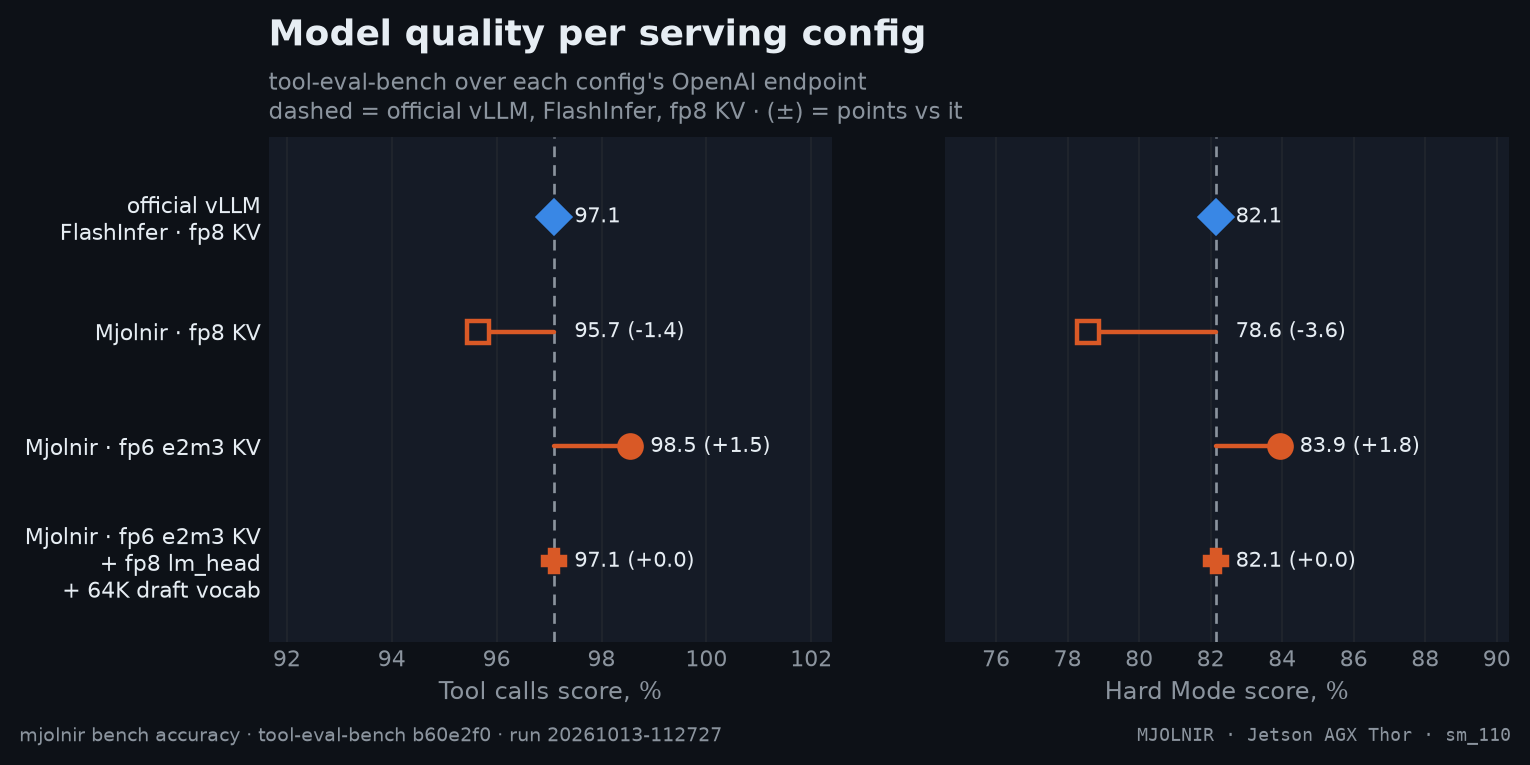
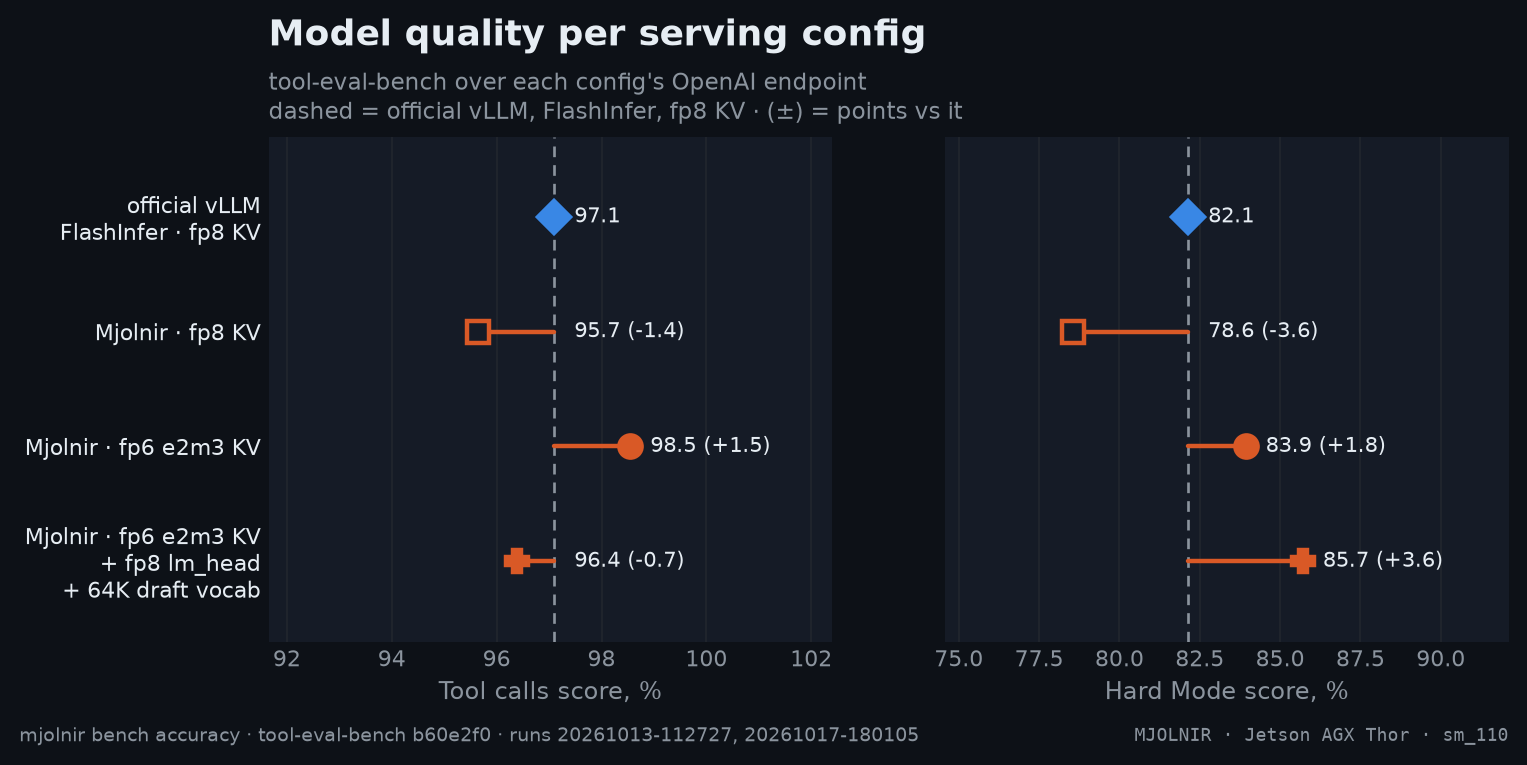
docs: re-render from the new raws

diff --git a/docs/kernel/accuracy.md b/docs/kernel/accuracy.md
@@ -1,6 +1,6 @@
 # Accuracy
 
-> Does a serving config keep the model's answers? Tool calling (standard + Hard Mode), and GSM8K / MMLU / IFEval on demand · `mjolnir bench accuracy` · run `20261013-112727`
+> Does a serving config keep the model's answers? Tool calling (standard + Hard Mode), and GSM8K / MMLU / IFEval on demand · `mjolnir bench accuracy` · runs `20261013-112727`, `20261017-180105`
 
 ## The question
 
@@ -27,14 +27,14 @@ Sampling is greedy (temperature 0) with a fixed seed, so two configs see the sam
 
 - **Mjolnir · fp8 KV** vs official vLLM · FlashInfer · fp8 KV: Tool calls -1.4, Hard Mode -3.6 points (4 scenarios scored lower, 2 higher of 97).
 - **Mjolnir · fp6 e2m3 KV** vs official vLLM · FlashInfer · fp8 KV: Tool calls +1.5, Hard Mode +1.8 points (0 scenarios scored lower, 3 higher of 97).
-- **Mjolnir · fp6 e2m3 KV + fp8 lm_head + 64K draft vocab** vs official vLLM · FlashInfer · fp8 KV: Tool calls +0.0, Hard Mode +0.0 points (1 scenarios scored lower, 1 higher of 97).
+- **Mjolnir · fp6 e2m3 KV + fp8 lm_head + 64K draft vocab** vs official vLLM · FlashInfer · fp8 KV: Tool calls -0.7, Hard Mode +3.6 points (3 scenarios scored lower, 3 higher of 97).
 
 | config | KV | Tool calls % | Hard Mode % | completion |
 |---|---|--:|--:|--:|
 | **official vLLM · FlashInfer · fp8 KV** | fp8 | 97.1 | 82.1 | 100% |
 | Mjolnir · fp8 KV | fp8 | 95.7 (-1.4) | 78.6 (-3.6) | 100% |
 | Mjolnir · fp6 e2m3 KV | fp6 e2m3 | 98.5 (+1.5) | 83.9 (+1.8) | 100% |
-| Mjolnir · fp6 e2m3 KV + fp8 lm_head + 64K draft vocab | fp6 e2m3 | 97.1 (+0.0) | 82.1 (+0.0) | 100% |
+| Mjolnir · fp6 e2m3 KV + fp8 lm_head + 64K draft vocab | fp6 e2m3 | 96.4 (-0.7) | 85.7 (+3.6) | 100% |
 
 <details>
 <summary>How the % and × here are calculated</summary>
@@ -45,7 +45,7 @@ Sampling is greedy (temperature 0) with a fixed seed, so two configs see the sam
 
 </details><br />
 
-<sub>Score in %, (±) = points vs **official vLLM · FlashInfer · fp8 KV**; n = averaged runs (`--trials`). Each row takes every suite from the newest run that measured it. tool-eval-bench arguments: Tool calls: `run --hardmode --seed 42 --timeout 600`; Hard Mode: `run --hardmode --seed 42 --timeout 600`. Rendered from [`benchmarks/raw/accuracy/20261013-112727/accuracy.json`](../../benchmarks/raw/accuracy/20261013-112727/accuracy.json).</sub>
+<sub>Score in %, (±) = points vs **official vLLM · FlashInfer · fp8 KV**; n = averaged runs (`--trials`). Each row takes every suite from the newest run that measured it. tool-eval-bench arguments: Tool calls: `run --hardmode --seed 42 --timeout 600`; Hard Mode: `run --hardmode --seed 42 --timeout 600`. Rendered from [`benchmarks/raw/accuracy/20261013-112727/accuracy.json`](../../benchmarks/raw/accuracy/20261013-112727/accuracy.json), [`benchmarks/raw/accuracy/20261017-180105/accuracy.json`](../../benchmarks/raw/accuracy/20261017-180105/accuracy.json).</sub>
 
 ### By tool-call category
 
@@ -66,12 +66,12 @@ Sampling is greedy (temperature 0) with a fixed seed, so two configs see the sam
 | H · Instruction Following | 100 | 100 | 100 | 100 |
 | I · Context & State | 90 | 95 | 100 | 90 |
 | J · Code Patterns | 100 | 100 | 100 | 100 |
-| K · Safety & Boundaries | 100 | 88 | 100 | 100 |
+| K · Safety & Boundaries | 100 | 88 | 100 | 96 |
 | L · Toolset Scale | 100 | 100 | 100 | 100 |
 | M · Autonomous Planning | 100 | 100 | 100 | 100 |
 | N · Creative Composition | 100 | 100 | 100 | 100 |
 | O · Structured Output | 83 | 83 | 83 | 83 |
-| P · Hard Mode | 82 | 79 | 84 | 82 |
+| P · Hard Mode | 82 | 79 | 84 | 86 |
 
 <sub>Share of points per category, %. A category has 2–10 scenarios: one scenario moving from pass to partial shifts it by 5–25 points — read single cells as anecdotes, the totals as the result.</sub>
 

diff --git a/docs/kernel/README.md b/docs/kernel/README.md
@@ -62,7 +62,7 @@ flowchart LR
 
 | # | chapter | question | status |
 |---|---|---|---|
-| 1 | [Correctness matrix](correctness.md) | kernel vs the bit-faithful emulator: every layout, format, page size, q_len, Q dtype | ✅ run `20261014-154855` |
+| 1 | [Correctness matrix](correctness.md) | kernel vs the bit-faithful emulator: every layout, format, page size, q_len, Q dtype | ✅ run `20261017-112344` |
 | 2 | [Headline L-sweep](sweep.md) | Mjolnir vs FlashInfer vs FlashAttention 2, ncu kernel time at every L | ✅ run `20261012-202029` |
 | 3 | [Head-major pages](hndsweep.md) | FlashInfer on NHD and HND vs Mjolnir on HND — is HND a kernel win or a layout win? | ✅ run `20261012-203356` |
 | 4 | [KV layouts and formats](kvfmt.md) | fp8 / fp6 / fp4 / nvfp4 KV on NHD / interleaved / HND pages (ncu + wall clock) | ✅ run `20261012-203801` |
@@ -74,7 +74,7 @@ flowchart LR
 | 10 | [L2 prefetch](prefetch.md) | TMA L2 prefetch distance (--l2_prefetch) sweep | ✅ run `20261012-211441` |
 | 11 | [Programmatic dependent launch](pdl.md) | PDL on/off wall clock (decode overlaps the previous kernel; merge launches early) | ✅ run `20261012-212058` |
 | 12 | [Flag A/B](ab.md) | any harness flag sets, ncu + wall clock (default: evict-first x PDL) | ✅ run `20261012-212748` |
-| 13 | [Accuracy](accuracy.md) | Does a serving config keep the model's answers? Tool calling (standard + Hard Mode), GSM8K / MMLU / IFEval on demand — `mjolnir bench accuracy` | ✅ run `20261013-112727` |
+| 13 | [Accuracy](accuracy.md) | Does a serving config keep the model's answers? Tool calling (standard + Hard Mode), GSM8K / MMLU / IFEval on demand — `mjolnir bench accuracy` | ✅ run `20261017-180105` |
 
 ## Reproducing everything
 

diff --git a/docs/kernel/correctness.md b/docs/kernel/correctness.md
@@ -1,6 +1,6 @@
 # Correctness matrix
 
-> kernel vs the bit-faithful emulator: every layout, format, page size, q_len, Q dtype · `mjolnir verify correctness` · run `20261014-154855`
+> kernel vs the bit-faithful emulator: every layout, format, page size, q_len, Q dtype · `mjolnir verify correctness` · run `20261017-112344`
 
 ## The question
 
@@ -26,7 +26,7 @@ Before any speed number counts, the kernel has to compute the same thing as atte
 | KV formats | ✅ 10/10 | fp8 |
 | default config | ✅ 10/10 | bf16, fp8 |
 
-<sub>Rendered from [`benchmarks/raw/verify/correctness/20261014-154855.json`](../../benchmarks/raw/verify/correctness/20261014-154855.json). Ratios: FlashInfer time ÷ variant time; green = faster beyond the ±3% noise band, red = slower, gray = within noise.</sub>
+<sub>Rendered from [`benchmarks/raw/verify/correctness/20261017-112344.json`](../../benchmarks/raw/verify/correctness/20261017-112344.json). Ratios: FlashInfer time ÷ variant time; green = faster beyond the ±3% noise band, red = slower, gray = within noise.</sub>
 
 ## How to read it
 
